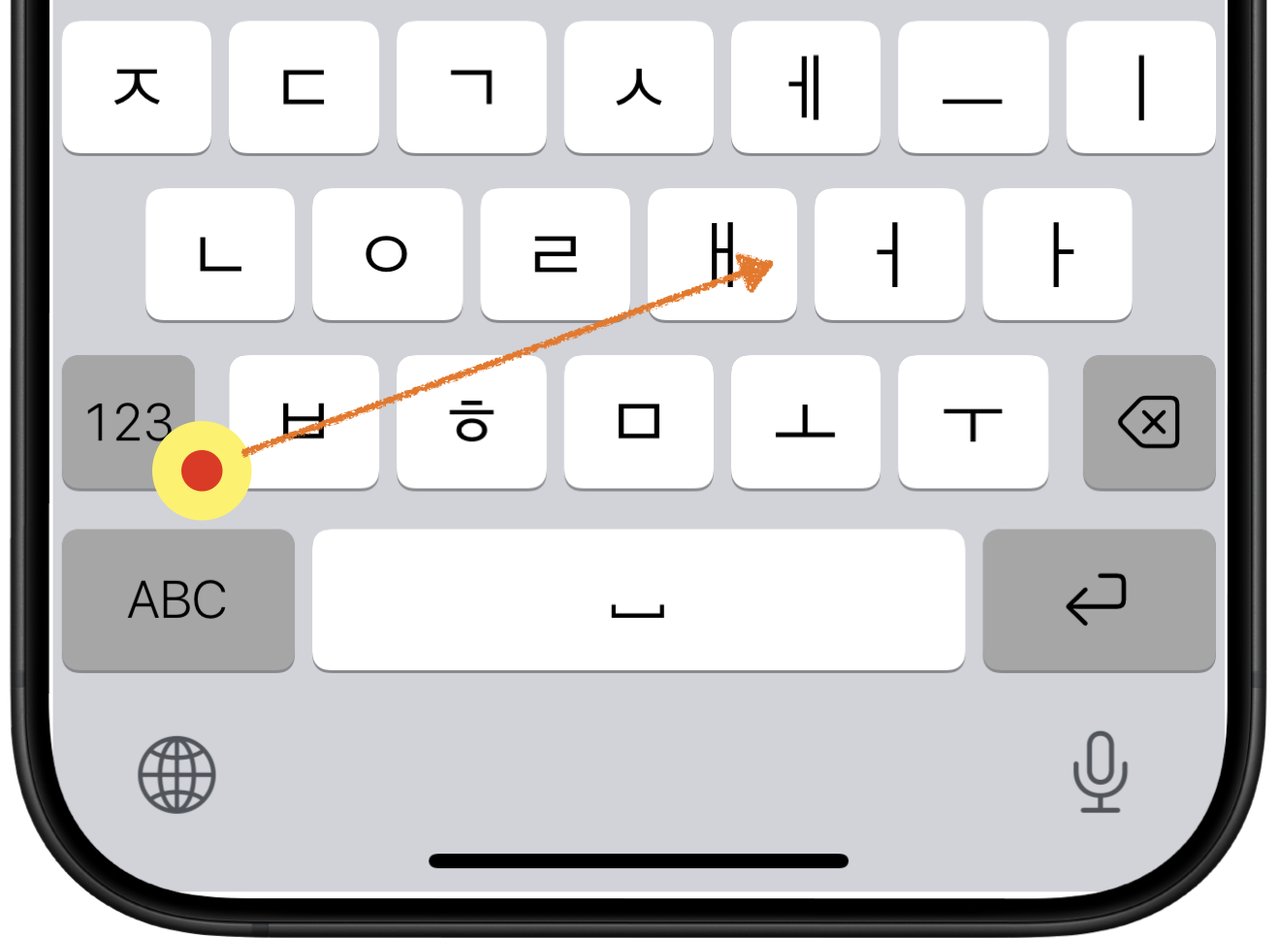
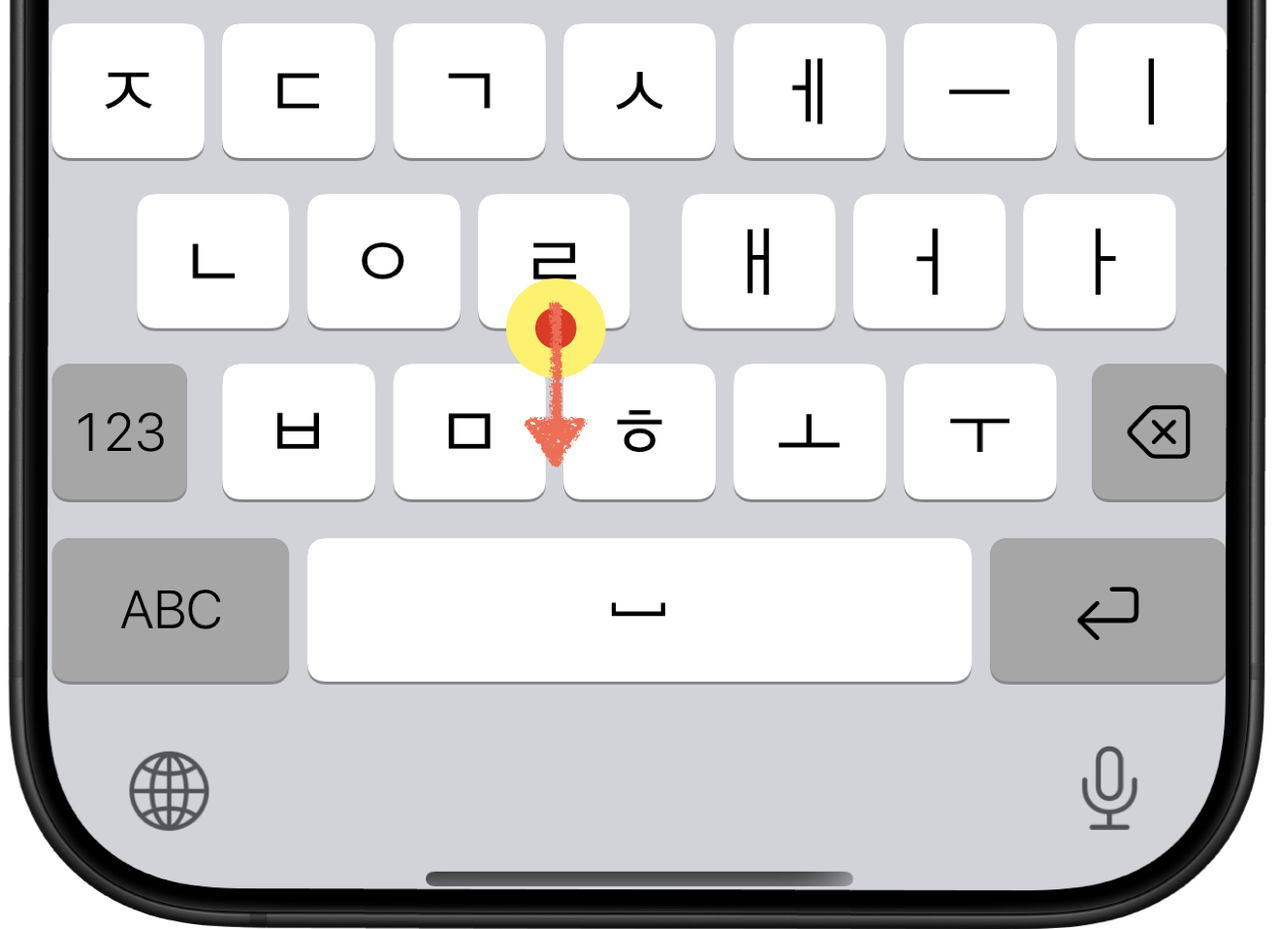
Add files via upload

diff --git a/manual.html b/manual.html
@@ -5,7 +5,7 @@
 	<meta name="viewport" content="width=device-width, initial-scale=1">
 	<meta name="generator" content="RocketCake">
 	<title></title>
-	<link rel="stylesheet" type="text/css" href="manual_html.css?h=7384f1f6">
+	<link rel="stylesheet" type="text/css" href="manual_html.css?h=676730d6">
 </head>
 <body>
 <div class="textstyle1">
@@ -15,16 +15,16 @@
 </div></div><div id="container_5e11d928"><div class="textstyle4"><div id="container_2d7b4969"><div class="textstyle4"><span class="textstyle5"><a href="index.html">Home</a></span><span class="textstyle5"><br/></span><span class="textstyle5"><a href="about.html">About</a></span><span class="textstyle5"><br/></span><span class="textstyle5"><a href="contact.html">Contact</a></span><span class="textstyle5"><br/></span><span class="textstyle6"><a href="manual.html">Manual</a></span><span class="textstyle5"><br/></span></div>
 </div></div>
 </div></div>
-<div style="clear:both"></div></div></div><div id="container_42e1be39"><div class="textstyle2"><img src="rc_images/djmkey_dark_wide_0021.png" width="1893" height="969" id="img_11e60731" alt="" title="" /></div>
-</div><span class="textstyle7"><br/></span><span class="textstyle8"><br/></span><div id="container_541cc4d"><div id="container_541cc4d_padding" ><div class="textstyle2"><span class="textstyle9"><br/><br/>    </span><span class="textstyle10">&#45800;&#51088;&#51020;&#53412; &#47700;&#45684;&#50620;<br/></span><span class="textstyle9"><br/></span><span class="textstyle9"><br/><br/></span><img src="rc_images/djmkey_light_002.png" width="1320" height="1487" id="img_76372fca" alt="" title="" /><div id="container_5ed9721c"><div id="container_5ed9721c_padding" ><div class="textstyle2"><span class="textstyle11">&#44217;&#51088;&#51020; &#48143; &#44221;&#51088;&#51020; &#47564;&#46308;&#44592; (&#52395;&#48264;&#51704; &#48169;&#48277;)</span><span class="textstyle12"><br/>&#50500;&#47000; &#51088;&#49548;&#46308;&#51008; &#45908;&#48660; &#53552;&#52824;&#47196; &#47564;&#46317;&#45768;&#45796;<br/>- &#51088;&#51020; 5&#44060;: &#12619; &#12620; &#12618; &#12621; &#12611; &#12614;   <br/>- &#47784;&#51020;: &#12625; &#12629; &#12635; ...<br/><br/>&#50500;&#47000; &#51088;&#49548;&#46308;&#51008; &#53944;&#47532;&#54540; &#53552;&#52824;&#47196; &#47564;&#46317;&#45768;&#45796;<br/>&#12594; &#12600; &#12617; (3&#44032;&#51648; &#51088;&#51020;)  <br/></span></div>
-</div></div><span class="textstyle9"><br/><br/><br/></span><img src="rc_images/djmkey_light_004.png" width="1320" height="1140" id="img_5be0ad15" alt="" title="" /><div id="container_62709428"><div id="container_62709428_padding" ><div class="textstyle2"><span class="textstyle11">&#44217;&#51088;&#51020; &#48143; &#44221;&#51088;&#51020; &#47564;&#46308;&#44592; (&#46160;&#48264;&#51704; &#48169;&#48277;)</span><span class="textstyle12"><br/>&#44217;&#51088;&#51020; &#45824;&#51025; &#53412; &#8216;&#12601;&#8217; &#48260;&#53948;&#51012; &#44600;&#44172; &#53552;&#52824; &#54980; &#50948;&#51901; &#48169;&#54693;&#51004;&#47196; &#54540;&#47549;(&#50424;&#50612;&#50732;&#47532;&#44592;) &#54633;&#45768;&#45796; </span></div>
-</div></div><span class="textstyle9"><br/><br/></span><img src="rc_images/djmkey_light_005.png" width="1320" height="963" id="img_66675b11" alt="" title="" /><div id="container_4c8cc367"><div id="container_4c8cc367_padding" ><div class="textstyle2"><span class="textstyle11">&#51096;&#47803; &#51077;&#47141;&#46108; &#44221;&#51088;&#49548;&#51032; &#45800;&#51088;&#49548; &#46308;&#51012; &#44221;&#51088;&#49548;&#47196; &#48320;&#54872;</span><span class="textstyle12"><br/>'&#12594;' --&gt; &#8216;&#12619;&#12593;&#8217; &#50752; &#44057;&#51060; &#51096;&#47803;&#51077;&#47141;&#46108; &#44163;&#51060;&#46972;&#47732; &#53412;&#48372;&#46300; &#50612;&#45712; &#44275;&#51060;&#46304; &#50500;&#47000; &#48169;&#54693;&#51004;&#47196; &#54540;&#47549;&#54633;&#45768;&#45796; <br/><br/></span><span class="textstyle11">&#53944;&#47532;&#54540; &#53364;&#47533;&#51012; &#45824;&#52404;&#54616;&#45716; &#44221;&#51088;&#49548; &#47564;&#46308;&#44592;</span><span class="textstyle12"><br/>&#12593;, &#12599;, &#12616; &#51088;&#49548;&#50640;&#49436; &#50500;&#47000; &#48169;&#54693;&#51004; &#54540;&#47549;&#54633;&#45768;&#45796;<br/></span></div>
-</div></div><span class="textstyle9"><br/><br/><br/></span><img src="rc_images/djmkey_light_006.png" width="1320" height="959" id="img_6532fa0e" alt="" title="" /><div id="container_4fe2a894"><div id="container_4fe2a894_padding" ><div class="textstyle2"><span class="textstyle11">&#46160;&#48264;&#51704; &#53412; &#47564;&#46308;&#44592; (&#52395;&#48264;&#51704; &#48169;&#48277;)</span><span class="textstyle12"><br/>&#50696;) ' 8 &#8216; &#53412;&#47484; &#50948;&#54644; ' &#12624; '&#53412;&#47484; &#45572;&#47476;&#51088; &#47560;&#51088; &#50948; &#48169;&#54693; &#54540;&#47549;(&#50424;&#50612;&#50732;&#47532;&#44592;) &#54633;&#45768;&#45796;</span></div>
-</div></div><span class="textstyle9"><br/><br/><br/></span><img src="rc_images/djmkey_light_007.png" width="1320" height="967" id="img_2a64b3ae" alt="" title="" /><div id="container_5a2c13b7"><div id="container_5a2c13b7_padding" ><div class="textstyle2"><span class="textstyle11">&#46160;&#48264;&#51704; &#53412; &#47564;&#46308;&#44592; (&#46160;&#48264;&#51704; &#48169;&#48277;)</span><span class="textstyle12"><br/>&#50696;) '8'&#53412;&#47484; &#47564;&#46308;&#44592;&#50948;&#54644; &#8216;123&#8217;&#53412;&#47484; 0.5&#52488; &#51060;&#49345; &#45572;&#47480; &#52292;&#47196; &#50628;&#51648;&#47484; '&#12624;' &#50948;&#52824;&#47196; &#45132;&#50612; &#49440;&#53469;&#54616;&#44144;&#45208; &#45796;&#47480; &#49552;&#44032;&#46973;&#51004;&#47196; &#45572;&#47493;&#45768;&#45796;<br/></span></div>
-</div></div><span class="textstyle9"><br/><br/><br/></span><img src="rc_images/djmkey_light_008.png" width="1320" height="1144" id="img_4902854c" alt="" title="" /><div id="container_7e510c81"><div id="container_7e510c81_padding" ><div class="textstyle2">  <span class="textstyle11">&#51088;&#51020; &#47784;&#51020; &#46041;&#49884;&#50640; &#45572;&#47476;&#44592; (&#47680;&#54000; &#53552;&#52824;) </span>
+<div style="clear:both"></div></div></div><div id="container_42e1be39"><div class="textstyle1"><img src="rc_images/djmkey_dark_wide_006_1200x666.png" width="1200" height="666" id="img_5475a51b" alt="" title="" /></div>
+</div><span class="textstyle7"><br/></span><span class="textstyle8"><br/></span><div id="container_541cc4d"><div id="container_541cc4d_padding" ><div class="textstyle2"><span class="textstyle9"><br/><br/>    </span><span class="textstyle10">&#45800;&#51088;&#51020;&#53412; &#47700;&#45684;&#50620;<br/></span><span class="textstyle9"><br/></span><span class="textstyle9"><br/><br/></span><img src="rc_images/djmkey_light_004_1085x1200.png" width="1085" height="1200" id="img_1c6e0b8e" alt="" title="" /><div id="container_5ed9721c"><div id="container_5ed9721c_padding" ><div class="textstyle2"><span class="textstyle11">&#44217;&#51088;&#51020; &#48143; &#44221;&#51088;&#51020; &#47564;&#46308;&#44592; (&#52395;&#48264;&#51704; &#48169;&#48277;)</span><span class="textstyle12"><br/>&#50500;&#47000; &#51088;&#49548;&#46308;&#51008; &#45908;&#48660; &#53552;&#52824;&#47196; &#47564;&#46317;&#45768;&#45796;<br/>- &#51088;&#51020; 5&#44060;: &#12619; &#12620; &#12618; &#12621; &#12611; &#12614;   <br/>- &#47784;&#51020;: &#12625; &#12629; &#12635; ...<br/><br/>&#50500;&#47000; &#51088;&#49548;&#46308;&#51008; &#53944;&#47532;&#54540; &#53552;&#52824;&#47196; &#47564;&#46317;&#45768;&#45796;<br/>&#12594; &#12600; &#12617; (3&#44032;&#51648; &#51088;&#51020;)  <br/></span></div>
+</div></div><span class="textstyle9"><br/><br/><br/></span><img src="rc_images/djmkey_light_006_1200x1036.png" width="1200" height="1036" id="img_426fe36" alt="" title="" /><div id="container_62709428"><div id="container_62709428_padding" ><div class="textstyle2"><span class="textstyle11">&#44217;&#51088;&#51020; &#48143; &#44221;&#51088;&#51020; &#47564;&#46308;&#44592; (&#46160;&#48264;&#51704; &#48169;&#48277;)</span><span class="textstyle12"><br/>&#44217;&#51088;&#51020; &#45824;&#51025; &#53412; &#8216;&#12601;&#8217; &#48260;&#53948;&#51012; &#44600;&#44172; &#53552;&#52824; &#54980; &#50948;&#51901; &#48169;&#54693;&#51004;&#47196; &#54540;&#47549;(&#50424;&#50612;&#50732;&#47532;&#44592;) &#54633;&#45768;&#45796; </span></div>
+</div></div><span class="textstyle9"><br/><br/></span><img src="rc_images/djmkey_light_007.png" width="1320" height="958" id="img_297d27c3" alt="" title="" /><div id="container_4c8cc367"><div id="container_4c8cc367_padding" ><div class="textstyle2"><span class="textstyle11">&#51096;&#47803; &#51077;&#47141;&#46108; &#44221;&#51088;&#49548;&#51032; &#45800;&#51088;&#49548; &#46308;&#51012; &#44221;&#51088;&#49548;&#47196; &#48320;&#54872;</span><span class="textstyle12"><br/>'&#12594;' --&gt; &#8216;&#12619;&#12593;&#8217; &#50752; &#44057;&#51060; &#51096;&#47803;&#51077;&#47141;&#46108; &#44163;&#51060;&#46972;&#47732; &#53412;&#48372;&#46300; &#50612;&#45712; &#44275;&#51060;&#46304; &#50500;&#47000; &#48169;&#54693;&#51004;&#47196; &#54540;&#47549;&#54633;&#45768;&#45796; <br/><br/></span><span class="textstyle11">&#53944;&#47532;&#54540; &#53364;&#47533;&#51012; &#45824;&#52404;&#54616;&#45716; &#44221;&#51088;&#49548; &#47564;&#46308;&#44592;</span><span class="textstyle12"><br/>&#12593;, &#12599;, &#12616; &#51088;&#49548;&#50640;&#49436; &#50500;&#47000; &#48169;&#54693;&#51004; &#54540;&#47549;&#54633;&#45768;&#45796;<br/></span></div>
+</div></div><span class="textstyle9"><br/><br/><br/></span><img src="rc_images/djmkey_light_008.png" width="1320" height="963" id="img_71fbe97c" alt="" title="" /><div id="container_4fe2a894"><div id="container_4fe2a894_padding" ><div class="textstyle2"><span class="textstyle11">&#46160;&#48264;&#51704; &#53412; &#47564;&#46308;&#44592; (&#52395;&#48264;&#51704; &#48169;&#48277;)</span><span class="textstyle12"><br/>&#50696;) ' 8 &#8216; &#53412;&#47484; &#50948;&#54644; ' &#12624; '&#53412;&#47484; &#45572;&#47476;&#51088; &#47560;&#51088; &#50948; &#48169;&#54693; &#54540;&#47549;(&#50424;&#50612;&#50732;&#47532;&#44592;) &#54633;&#45768;&#45796;</span></div>
+</div></div><span class="textstyle9"><br/><br/><br/></span><img src="rc_images/djmkey_light_009.png" width="1320" height="975" id="img_1ebebf5c" alt="" title="" /><div id="container_5a2c13b7"><div id="container_5a2c13b7_padding" ><div class="textstyle2"><span class="textstyle11">&#46160;&#48264;&#51704; &#53412; &#47564;&#46308;&#44592; (&#46160;&#48264;&#51704; &#48169;&#48277;)</span><span class="textstyle12"><br/>&#50696;) '8'&#53412;&#47484; &#47564;&#46308;&#44592;&#50948;&#54644; &#8216;123&#8217;&#53412;&#47484; 0.5&#52488; &#51060;&#49345; &#45572;&#47480; &#52292;&#47196; &#50628;&#51648;&#47484; '&#12624;' &#50948;&#52824;&#47196; &#45132;&#50612; &#49440;&#53469;&#54616;&#44144;&#45208; &#45796;&#47480; &#49552;&#44032;&#46973;&#51004;&#47196; &#45572;&#47493;&#45768;&#45796;<br/></span></div>
+</div></div><span class="textstyle9"><br/><br/><br/></span><img src="rc_images/djmkey_light_010_1200x1016.png" width="1200" height="1016" id="img_2145fd1" alt="" title="" /><div id="container_7e510c81"><div id="container_7e510c81_padding" ><div class="textstyle2">  <span class="textstyle11">&#51088;&#51020; &#47784;&#51020; &#46041;&#49884;&#50640; &#45572;&#47476;&#44592; (&#47680;&#54000; &#53552;&#52824;) </span>
   <span class="textstyle12"><br/>&#50696;) ' &#44036; ' : &#50628;&#51648;&#47484; &#46524;&#51648; &#50506;&#44256; &#45796;&#47480; &#50628;&#51648;&#47196; &#51088;&#49548;&#47484; &#45572;&#47476;&#45716; &#47680;&#54000; &#53552;&#52824;&#44032; &#50756;&#51204;&#54616;&#44172; &#44396;&#54788;&#46104;&#50612; &#51080;&#49845;&#45768;&#45796; </span>
 </div>
-</div></div><span class="textstyle9"><br/></span><img src="rc_images/djmkey_darkmokup_003.png" width="1320" height="2868" id="img_614a360" alt="" title="" /><div id="container_4a065c39"><div id="container_4a065c39_padding" ><div class="textstyle2">  <span class="textstyle12"><br/><br/><br/><br/><br/>&#50741;&#49496; &#47588;&#45684;&#51077;&#45768;&#45796;<br/></span>
+</div></div><span class="textstyle9"><br/></span><img src="rc_images/djmkey_light_003_552x1200.png" width="552" height="1200" id="img_450824da" alt="" title="" /><div id="container_4a065c39"><div id="container_4a065c39_padding" ><div class="textstyle2">  <span class="textstyle12"><br/><br/><br/><br/><br/>&#50741;&#49496; &#47588;&#45684;&#51077;&#45768;&#45796;<br/></span>
 </div>
 </div></div><span class="textstyle9"><br/></span><span class="textstyle9"><br/></span></div>
 <div style="clear:both"></div></div></div><span class="textstyle13"><br/></span><span class="textstyle14">Copyright 2025 &#51648;&#45824;&#49440;. All rights reserved</span><span class="textstyle13"><br/></span></div>

diff --git a/index.html b/index.html
@@ -3,11 +3,11 @@
 <head>
 	<meta charset="utf-8">
 	<meta name="viewport" content="width=device-width, initial-scale=1">
-<meta name="title” content=“단자음 10키 한글 키보드 ”>
+<meta name="title” content=“단자음 한글 키보드 ”>
 <meta name="keywords" content=“단자음키, 단자음키보드, 엄지키, 엄지키보드, 한글키보드추천, 아이폰한글키보드, 한글키, 한글키보드, 단모음, 단키, 넥스트플랜, nextplan, 핸드폰”>
 <meta name="description" content=“단자음키는 핸드폰에서 한글 입력시 단자음 10키와 단모음 8키를 이용하며 자동 오타 교정과 함께 동시 누름 방식을 적용하여 자연스러운 키 입력이 되도록 하였음”>
 	<title></title>
-	<link rel="stylesheet" type="text/css" href="index_html.css?h=334a8279">
+	<link rel="stylesheet" type="text/css" href="index_html.css?h=467adac9">
 </head>
 <body>
 <div class="textstyle1">
@@ -17,7 +17,8 @@
 </div></div><div id="container_785dbb6"><div class="textstyle4"><div id="container_77609974"><div class="textstyle4"><span class="textstyle5"><a href="index.html">Home</a></span><span class="textstyle5"><br/></span><span class="textstyle5"><a href="about.html">About</a></span><span class="textstyle5"><br/></span><span class="textstyle5"><a href="contact.html">Contact</a></span><span class="textstyle5"><br/></span><span class="textstyle6"><a href="manual.html">Manual</a></span></div>
 </div></div>
 </div></div>
-<div style="clear:both"></div></div></div><div id="container_4a5a90a8"><div class="textstyle1"><img src="rc_images/djmkey_dark_wide_001.png" width="2640" height="2868" id="img_3dbc5511" alt="" title="" /><span class="textstyle7"><br/></span><a href="about.html" style="text-decoration:none"><div id="button_263f8a00"><div class="vcenterstyle1"><div class="vcenterstyle2"><div class="textstyle2"></div>
+<div style="clear:both"></div></div></div><div id="container_4a5a90a8"><div class="textstyle2"><img src="rc_images/djmkey_dark_wide_001_1104x1200.png" width="1104" height="1200" id="img_1227c0aa" alt="" title="" /></div>
+<div class="textstyle1"><span class="textstyle7"><br/></span><a href="about.html" style="text-decoration:none"><div id="button_263f8a00"><div class="vcenterstyle1"><div class="vcenterstyle2"><div class="textstyle2"></div>
 <div class="textstyle1">  <span class="textstyle8">About</span>
 </div>
 </div></div></div></a><a href="contact.html" style="text-decoration:none"><div id="button_6f4409d4"><div class="vcenterstyle1"><div class="vcenterstyle2"><div class="textstyle1">  <span class="textstyle8">Contact</span>
@@ -32,7 +33,7 @@
 <div style="clear:both"></div></div></div></div>
 <div style="clear:both"></div></div></div></div>
 <div class="textstyle2"><span class="textstyle13"><br/></span></div>
-<div class="textstyle1"><div id="container_28baa5e8"><div id="container_28baa5e8_padding" ><div class="textstyle2"><span class="textstyle14">&#50500;&#51060;&#54256; &#51221;&#44508; &#53412;&#48372;&#46300;&#44032; &#48520;&#54200;&#54616;&#44172; &#45712;&#44788;&#48376; &#51201;&#51060; &#51080;&#45796;&#47732; &#44536;&#44163;&#51008; &#50500;&#47560;, &#51088;&#49548; &#44208;&#54633;&#51004;&#47196; &#44396;&#49457;&#46104;&#45716; &#54620;&#44544;&#51032; &#53945;&#49457;&#51012; &#51228;&#45824;&#47196; &#48152;&#50689;&#54616;&#51648; &#47803;&#54616;&#45716; &#54620;&#44228;&#47484; &#45712;&#45180;&#44592; &#46412;&#47928;&#51068; &#44163;&#51077;&#45768;&#45796;<br/>&#51333;&#49457;&#44284; &#52488;&#49457;&#51012; &#54632;&#44760; &#49324;&#50857;&#54616;&#44256; &#51088;&#49548; &#44208;&#54633;&#51012; &#53945;&#49457;&#51004;&#47196; &#54616;&#45716; &#54620;&#44544;&#51012; &#50728;&#51204;&#55176; &#49324;&#50857;&#54624; &#49688; &#51080;&#50612;&#50556;&#44192;&#49845;&#45768;&#45796;<br/><br/></span><span class="textstyle15">[ &#44592;&#51316; &#45796;&#47480; &#53412;&#48372;&#46300;&#48372;&#45796; &#44060;&#49440;&#46108; &#51216; ]</span><span class="textstyle14"><br/></span><span class="textstyle16">1. &#48260;&#53948;&#51032; &#44079;&#49688;&#47484; &#53552;&#52824;&#50640; &#51201;&#45817;&#54620; &#44079;&#49688;&#47196; &#54616;&#50688;&#49845;&#45768;&#45796;</span><span class="textstyle14"><br/>   &#48260;&#53948;&#51060; &#45320;&#47924; &#47566;&#51004;&#47732; &#53552;&#52824; &#54943;&#49688;&#45716; &#51201;&#51004;&#45208; &#53552;&#52824; &#49892;&#49688; &#50724;&#53440;&#44032; &#47566;&#44256; &#45320;&#47924; &#51201;&#51004;&#47732; &#53412;&#51064; &#54943;&#49688;&#45716; &#51613;&#44032;&#46104;&#45208; &#53552;&#52824; &#49892;&#49688;&#44032; &#51201;&#50612;&#51665;&#45768;&#45796; <br/></span><span class="textstyle16">2. &#52572;&#45824;&#54620; &#48736;&#47480; &#53412;&#51064;&#51012; &#54624; &#49688; &#51080;&#46020;&#47197; &#54616;&#50688;&#49845;&#45768;&#45796;</span><span class="textstyle14"><br/>  &#50896;&#53552;&#52824;,&#45908;&#48660;&#53552;&#52824;,3&#45908;&#48660;&#53552;&#52824;(&#12594;,&#12600;, &#12617; 3&#44060;)&#47484; &#49324;&#50857;&#54616;&#50668; &#51648;&#50672; &#53552;&#52824;(&#54413;&#49440; &#47568; &#49324;&#50857;&#46321;) &#50630;&#51060; &#45233;&#47568;&#51060; &#50756;&#49457;&#46121;&#45768;&#45796;<br/>3. &#45908;&#48660;&#53552;&#52824;&#47448;&#51032; &#51088;&#49548;&#47196; &#51064;&#54620; &#50724;&#53440;(&#12619; -&gt; &#12593;&#12593;)&#47484; &#44368;&#51221;&#54616;&#45716; &#51088;&#46041; &#44053;&#51228;&#44368;&#51221; &#48143; &#44397;&#50612;&#49324;&#51204;(&#44397;&#47549;&#44397;&#50612;&#50896; &#54364;&#51456;&#44592;&#52488;&#49324;&#51204;)&#51012; &#52280;&#44256;&#54616;&#45716; &#51088;&#46041; &#49324;&#51204;&#44368;&#51221;&#51004;&#47196; &#52376;&#47532;&#54633;&#45768;&#45796;<br/>4. &#50577;&#49552; &#50628;&#51648;&#47484; &#46041;&#49884;&#50640; &#45572;&#47476;&#47728; &#53412;&#51064;&#51012; &#51060;&#50612;&#44032;&#45716; &#47680;&#54000;&#53552;&#52824;&#44032; &#50756;&#51204;&#54616;&#44172; &#44396;&#54788;&#46104;&#50612; &#51080;&#49845;&#45768;&#45796; &#45236;&#48512;&#51201;&#51004;&#47196; &#51088;&#46041;&#44368;&#51221;&#51060; &#51652;&#54665;&#46104;&#50612;&#46020; &#51221;&#49345; &#52376;&#47532;&#46121;&#45768;&#45796;<br/><br/><br/></span></div>
+<div class="textstyle1"><div id="container_28baa5e8"><div id="container_28baa5e8_padding" ><div class="textstyle2"><span class="textstyle14">&#50500;&#51060;&#54256; &#51221;&#44508; &#53412;&#48372;&#46300;&#44032; &#48520;&#54200;&#54616;&#44172; &#45712;&#44788;&#48376; &#51201;&#51060; &#51080;&#45796;&#47732; &#44536;&#44163;&#51008; &#50500;&#47560;, &#51088;&#49548; &#44208;&#54633;&#51004;&#47196; &#44396;&#49457;&#46104;&#45716; &#54620;&#44544;&#51032; &#53945;&#49457;&#51012; &#51228;&#45824;&#47196; &#48152;&#50689;&#54616;&#51648; &#47803;&#54616;&#45716; &#54620;&#44228;&#47484; &#45712;&#45180;&#44592; &#46412;&#47928;&#51068; &#44163;&#51077;&#45768;&#45796;<br/>&#51333;&#49457;&#44284; &#52488;&#49457;&#51012; &#54632;&#44760; &#49324;&#50857;&#54616;&#44256; &#51088;&#49548; &#44208;&#54633;&#51012; &#53945;&#49457;&#51004;&#47196; &#54616;&#45716; &#54620;&#44544;&#51012; &#50728;&#51204;&#55176; &#49324;&#50857;&#54624; &#49688; &#51080;&#50612;&#50556;&#44192;&#49845;&#45768;&#45796;<br/><br/></span><span class="textstyle15">[ &#44592;&#51316; &#45796;&#47480; &#53412;&#48372;&#46300;&#48372;&#45796; &#44060;&#49440;&#46108; &#51216; ]</span><span class="textstyle14"><br/></span><span class="textstyle16">1. &#48260;&#53948;&#51032; &#44079;&#49688;&#47484; &#53552;&#52824;&#50640; &#51201;&#45817;&#54620; &#44079;&#49688;&#47196; &#54616;&#50688;&#49845;&#45768;&#45796;</span><span class="textstyle14"><br/>   &#48260;&#53948;&#51060; &#45320;&#47924; &#47566;&#51004;&#47732; &#53552;&#52824; &#54943;&#49688;&#45716; &#51201;&#51004;&#45208; &#53552;&#52824; &#49892;&#49688; &#50724;&#53440;&#44032; &#47566;&#44256; &#45320;&#47924; &#51201;&#51004;&#47732; &#53412;&#51064; &#54943;&#49688;&#45716; &#51613;&#44032;&#46104;&#45208; &#53552;&#52824; &#49892;&#49688;&#44032; &#51201;&#50612;&#51665;&#45768;&#45796; <br/></span><span class="textstyle16">2. &#52572;&#45824;&#54620; &#48736;&#47480; &#53412;&#51064;&#51012; &#54624; &#49688; &#51080;&#46020;&#47197; &#54616;&#50688;&#49845;&#45768;&#45796;</span><span class="textstyle14"><br/>   &#50896;&#53552;&#52824;,&#45908;&#48660;&#53552;&#52824;,3&#45908;&#48660;&#53552;&#52824;(&#12594;,&#12600;, &#12617; 3&#44060;)&#47484; &#49324;&#50857;&#54616;&#50668; &#51648;&#50672; &#53552;&#52824;(&#54413;&#49440; &#47568; &#49324;&#50857;&#46321;) &#50630;&#51060; &#45233;&#47568;&#51060; &#50756;&#49457;&#46121;&#45768;&#45796;<br/>3. &#45908;&#48660;&#53552;&#52824;&#47448;&#51032; &#51088;&#49548;&#47196; &#51064;&#54620; &#50724;&#53440;(&#12619; -&gt; &#12593;&#12593;)&#47484; &#44368;&#51221;&#54616;&#45716; &#51088;&#46041; &#44053;&#51228;&#44368;&#51221; &#48143; &#44397;&#50612;&#49324;&#51204;(&#44397;&#47549;&#44397;&#50612;&#50896; &#54364;&#51456;&#44592;&#52488;&#49324;&#51204;)&#51012; &#52280;&#44256;&#54616;&#45716; &#51088;&#46041; &#49324;&#51204;&#44368;&#51221;&#51004;&#47196; &#52376;&#47532;&#54633;&#45768;&#45796;<br/>4. &#50577;&#49552; &#50628;&#51648;&#47484; &#46041;&#49884;&#50640; &#45572;&#47476;&#47728; &#53412;&#51064;&#51012; &#51060;&#50612;&#44032;&#45716; &#47680;&#54000;&#53552;&#52824;&#44032; &#50756;&#51204;&#54616;&#44172; &#44396;&#54788;&#46104;&#50612; &#51080;&#49845;&#45768;&#45796; &#45236;&#48512;&#51201;&#51004;&#47196; &#51088;&#46041;&#44368;&#51221;&#51060; &#51652;&#54665;&#46104;&#50612;&#46020; &#51221;&#49345; &#52376;&#47532;&#46121;&#45768;&#45796;<br/><br/><br/></span></div>
 </div></div></div>
 <div class="textstyle2"><span class="textstyle10"><br/></span><div id="container_749be54d"><div id="container_749be54d_padding" ><div class="textstyle1"><span class="textstyle17"><br/></span><div id="container_7ea221bd"><div id="container_7ea221bd_padding" ><div class="textstyle2"><span class="textstyle18">&#45800;&#51088;&#51020;&#53412;&#48372;&#46300;&#44032; &#51080;&#49845;&#45768;&#45796;!</span><span class="textstyle19"><br/><br/></span><span class="textstyle20">&#54200;&#50504;&#54620; &#48260;&#53948; &#53356;&#44592;, <br/>&#53552;&#52824; &#53412;&#51064; &#55120;&#47492;&#51012; &#44536;&#45824;&#47196; &#51060;&#50612;&#44032;&#45716;,<br/>&#50724;&#53440; &#50630;&#45716; &#53412; &#51077;&#47141;&#51060; &#44032;&#45733;&#54633;&#45768;&#45796;.<br/></span></div>
 </div></div><span class="textstyle21"><br/><br/></span></div>

diff --git a/manual_html.css b/manual_html.css
@@ -17,36 +17,36 @@ body { background-color:#FFFFFF; padding:0;  margin: 0; }
 .textstyle5 { font-size:14pt; font-family:Arial, Helvetica, sans-serif; color:#FFFFFF;  }
 .textstyle6 { font-size:14pt; font-family:Arial, Helvetica, sans-serif; color:#FFFFFF; font-weight:bold;  }
 #container_42e1be39 { vertical-align: top; position:relative; display: inline-block; width:100%; min-height:156px; background-color:#2B252D; background: linear-gradient(to bottom, #9A9AE0, #2B252D);  }
-#img_11e60731 { vertical-align: bottom; position:relative; display: inline-block; width:100%; background:none; height:auto;  }
+#img_5475a51b { vertical-align: bottom; position:relative; display: inline-block; width:50%; background:none; height:auto;  }
 .textstyle7 { font-size:15pt; font-family:Segoe, 'Segoe UI', 'Helvetica Neue', sans-serif; color:#20242E;  }
 .textstyle8 { font-size:15pt; font-family:Tahoma, Geneva, sans-serif; color:#20242E;  }
 #container_541cc4d { vertical-align: top; position:relative; display: inline-block; width:90%; min-height:150px; background:none;  }
 #container_541cc4d_padding { margin: 10px; display: block;  }
 .textstyle9 { font-size:12pt; font-family:Arial, Helvetica, sans-serif; color:#000000;  }
 .textstyle10 { font-size:22pt; font-family:Arial, Helvetica, sans-serif; color:#000000; font-weight:bold;  }
-#img_76372fca { vertical-align: bottom; position:relative; display: inline-block; width:50%; background:none; height:auto;  }
+#img_1c6e0b8e { vertical-align: bottom; position:relative; display: inline-block; width:50%; background:none; height:auto;  }
 #container_5ed9721c { vertical-align: top; position:relative; display: inline-block; width:50%; min-height:150px; background:none;  }
-#container_5ed9721c_padding { margin: 20px 20px 20px 0px;display: block;  }
+#container_5ed9721c_padding { margin: 20px 20px 20px 15px;display: block;  }
 .textstyle11 { font-size:13pt; font-family:Arial, Helvetica, sans-serif; color:#000000; font-weight:bold;  }
 .textstyle12 { font-size:13pt; font-family:Arial, Helvetica, sans-serif; color:#000000;  }
-#img_5be0ad15 { vertical-align: bottom; position:relative; display: inline-block; width:50%; background:none; height:auto;  }
+#img_426fe36 { vertical-align: bottom; position:relative; display: inline-block; width:50%; background:none; height:auto;  }
 #container_62709428 { vertical-align: top; position:relative; display: inline-block; width:50%; min-height:150px; background:none;  }
-#container_62709428_padding { margin: 20px 20px 20px 0px;display: block;  }
-#img_66675b11 { vertical-align: bottom; position:relative; display: inline-block; width:50%; background:none; height:auto;  }
+#container_62709428_padding { margin: 20px 20px 20px 15px;display: block;  }
+#img_297d27c3 { vertical-align: bottom; position:relative; display: inline-block; width:50%; background:none; height:auto;  }
 #container_4c8cc367 { vertical-align: top; position:relative; display: inline-block; width:50%; min-height:150px; background:none;  }
-#container_4c8cc367_padding { margin: 20px 20px 20px 0px;display: block;  }
-#img_6532fa0e { vertical-align: bottom; position:relative; display: inline-block; width:50%; background:none; height:auto;  }
+#container_4c8cc367_padding { margin: 20px 20px 20px 15px;display: block;  }
+#img_71fbe97c { vertical-align: bottom; position:relative; display: inline-block; width:50%; background:none; height:auto;  }
 #container_4fe2a894 { vertical-align: top; position:relative; display: inline-block; width:50%; min-height:150px; background:none;  }
-#container_4fe2a894_padding { margin: 20px 20px 20px 0px;display: block;  }
-#img_2a64b3ae { vertical-align: bottom; position:relative; display: inline-block; width:50%; background:none; height:auto;  }
+#container_4fe2a894_padding { margin: 20px 20px 20px 15px;display: block;  }
+#img_1ebebf5c { vertical-align: bottom; position:relative; display: inline-block; width:50%; background:none; height:auto;  }
 #container_5a2c13b7 { vertical-align: top; position:relative; display: inline-block; width:50%; min-height:150px; background:none;  }
-#container_5a2c13b7_padding { margin: 20px 20px 20px 0px;display: block;  }
-#img_4902854c { vertical-align: bottom; position:relative; display: inline-block; width:50%; background:none; height:auto;  }
+#container_5a2c13b7_padding { margin: 20px 20px 20px 15px;display: block;  }
+#img_2145fd1 { vertical-align: bottom; position:relative; display: inline-block; width:50%; background:none; height:auto;  }
 #container_7e510c81 { vertical-align: top; position:relative; display: inline-block; width:50%; min-height:150px; background:none;  }
-#container_7e510c81_padding { margin: 20px 20px 20px 0px;display: block;  }
-#img_614a360 { vertical-align: bottom; position:relative; display: inline-block; width:70%; background:none; height:auto;  }
+#container_7e510c81_padding { margin: 20px 20px 20px 15px;display: block;  }
+#img_450824da { vertical-align: bottom; position:relative; display: inline-block; width:50%; background:none; height:auto;  }
 #container_4a065c39 { vertical-align: top; position:relative; display: inline-block; width:50%; min-height:52px; background:none;  }
-#container_4a065c39_padding { margin: 20px 20px 20px 0px;display: block;  }
+#container_4a065c39_padding { margin: 20px 20px 20px 15px;display: block;  }
 .textstyle13 { font-size:32pt; font-family:Tahoma, Geneva, sans-serif; color:#20242E;  }
 .textstyle14 { font-size:8pt; font-family:Arial, Helvetica, sans-serif; color:#000000;  }
 @media only screen and (max-width: 640px)

diff --git a/index_html.css b/index_html.css
@@ -26,7 +26,7 @@ body { background-color:#FFFFFF; padding:0;  margin: 0; }
 .textstyle5 { font-size:14pt; font-family:Arial, Helvetica, sans-serif; color:#FFFFFF;  }
 .textstyle6 { font-size:14pt; font-family:Arial, Helvetica, sans-serif; color:#FFFFFF; font-weight:bold;  }
 #container_4a5a90a8 { vertical-align: top; position:relative; display: inline-block; width:100%; min-height:215px; background:none;  }
-#img_3dbc5511 { vertical-align: bottom; position:relative; display: inline-block; margin:0px 0px 20px 0px;width:100%; background-color:#FFFFFF; background: linear-gradient(to bottom, #7F7F7F, #FFFFFF); height:auto;  }
+#img_1227c0aa { vertical-align: bottom; position:relative; display: inline-block; width:100%; background:none; height:auto;  }
 .textstyle7 { font-size:22pt; font-family:Arial, Helvetica, sans-serif; color:#000000;  }
 .vcenterstyle1 { display: table; width: 100%; height: 100%; }
 .vcenterstyle2 { display: table-cell; vertical-align: middle; }
